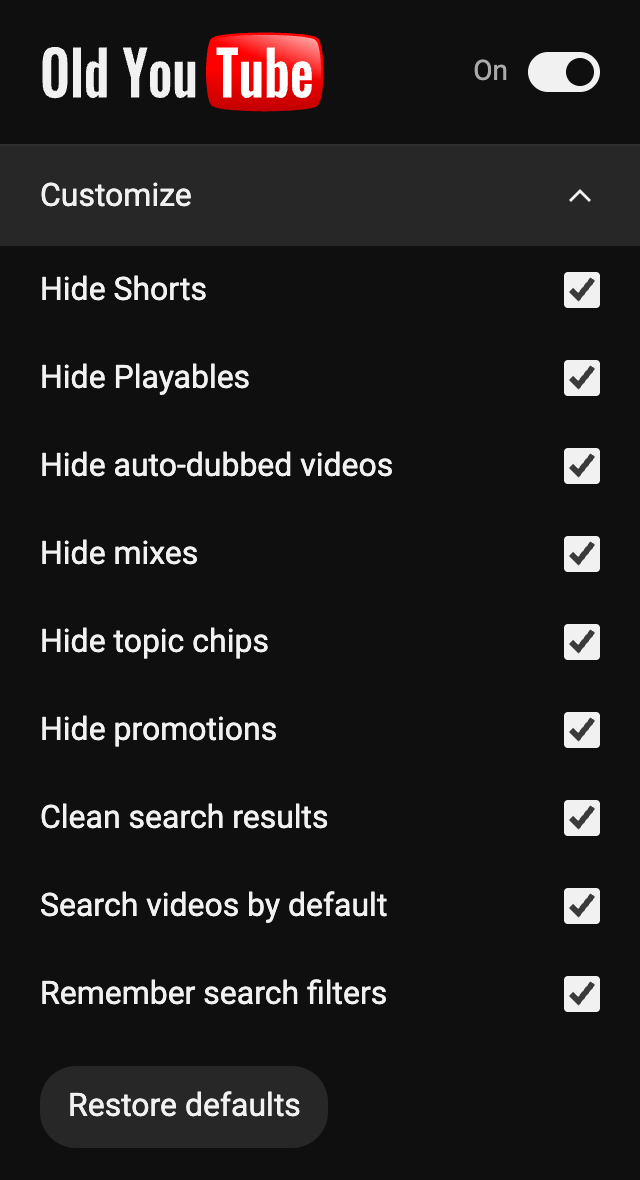
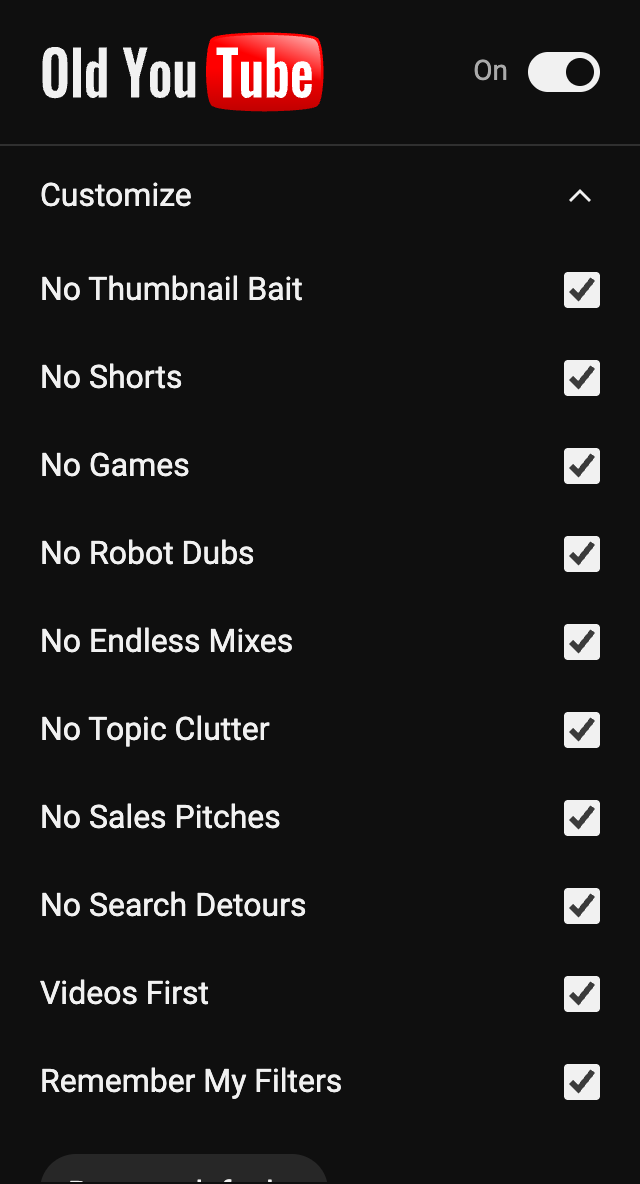
Add No Thumbnail Bait and playful settings labels (#1)

diff --git a/extension/thumbnails.js b/extension/thumbnails.js
@@ -1,0 +1,87 @@
+(() => {
+  'use strict';
+  const entries = new Map();
+  const cache = new Map();
+  let enabled = false;
+  const selector = 'a#thumbnail[href], a.ytLockupViewModelContentImage[href]';
+
+  function frameURL(link) {
+    if (link.querySelector('[overlay-style="LIVE"], [overlay-style="UPCOMING"], .ytBadgeShapeThumbnailLive')) return null;
+    const labels = link.querySelectorAll('badge-shape, ytd-thumbnail-overlay-time-status-renderer');
+    if ([...labels].some(e => /^(live|upcoming|premiere)$/i.test(e.textContent.trim()))) return null;
+    return globalThis.OldYouTube.videoFrameURL(link.href);
+  }
+
+  function clear(image) {
+    image.removeAttribute('data-oy-frame');
+    image.style.removeProperty('--oy-frame');
+    observer.unobserve(image);
+    entries.delete(image);
+  }
+
+  function available(url) {
+    if (cache.has(url)) return cache.get(url);
+    const result = new Promise(resolve => {
+      const probe = new Image();
+      probe.referrerPolicy = 'no-referrer';
+      let timer;
+      const finish = ok => {
+        clearTimeout(timer);
+        probe.onload = probe.onerror = null;
+        if (!ok) probe.removeAttribute('src');
+        resolve(ok);
+      };
+      // A missing still can return a successful HTTP response with a 120px placeholder.
+      probe.onload = () => finish(probe.naturalWidth > 120 && probe.naturalHeight > 90);
+      probe.onerror = () => finish(false);
+      timer = setTimeout(() => finish(false), 8000);
+      probe.src = url;
+    });
+    cache.set(url, result);
+    if (cache.size > 200) cache.delete(cache.keys().next().value);
+    return result;
+  }
+
+  const observer = new IntersectionObserver(changes => {
+    for (const change of changes) {
+      if (!enabled || !change.isIntersecting) continue;
+      const image = change.target;
+      const entry = entries.get(image);
+      if (!entry || entry.started) continue;
+      entry.started = true;
+      observer.unobserve(image);
+      available(entry.url).then(ok => {
+        if (!ok || !enabled || !image.isConnected || entries.get(image) !== entry ||
+            frameURL(entry.link) !== entry.url) return;
+        image.style.setProperty('--oy-frame', `url("${entry.url}")`);
+        image.setAttribute('data-oy-frame', '');
+      });
+    }
+  }, { rootMargin: '200px' });
+
+  function scan() {
+    if (!enabled) return;
+    // YouTube recycles cards and sometimes keeps a hidden page during SPA navigation.
+    for (const [image, entry] of entries) {
+      if (!image.isConnected || !entry.link.contains(image) || frameURL(entry.link) !== entry.url) clear(image);
+    }
+    for (const link of document.querySelectorAll(selector)) {
+      const url = frameURL(link);
+      if (!url) continue;
+      const image = link.querySelector('.ytThumbnailViewModelImage img, yt-image img, img#img');
+      if (!image || entries.has(image)) continue;
+      entries.set(image, { link, url, started: false });
+      observer.observe(image);
+    }
+  }
+
+  function setEnabled(value) {
+    enabled = value;
+    if (!enabled) {
+      observer.disconnect();
+      for (const image of entries.keys()) clear(image);
+    }
+  }
+
+  globalThis.OldYouTubeFrames = { scan, setEnabled };
+})();

diff --git a/extension/popup.html b/extension/popup.html
@@ -19,15 +19,16 @@
     <details id="customize">
       <summary>Customize<svg aria-hidden="true" width="20" height="20" viewBox="0 0 24 24"><path d="m6 9 6 6 6-6"/></svg></summary>
       <div class="options">
-        <label><span>Hide Shorts</span><input type="checkbox" data-setting="hideShorts" disabled></label>
-        <label><span>Hide Playables</span><input type="checkbox" data-setting="hidePlayables" disabled></label>
-        <label><span>Hide auto-dubbed videos</span><input type="checkbox" data-setting="hideAutoDubbed" disabled></label>
-        <label><span>Hide mixes</span><input type="checkbox" data-setting="hideMixes" disabled></label>
-        <label><span>Hide topic chips</span><input type="checkbox" data-setting="hideTopics" disabled></label>
-        <label><span>Hide promotions</span><input type="checkbox" data-setting="hidePromotions" disabled></label>
-        <label><span>Clean search results</span><input type="checkbox" data-setting="cleanSearch" disabled></label>
-        <label><span>Search videos by default</span><input type="checkbox" data-setting="videoSearch" disabled></label>
-        <label><span>Remember search filters</span><input type="checkbox" data-setting="rememberFilters" disabled></label>
+        <label><span>No Thumbnail Bait</span><input type="checkbox" data-setting="videoFrames" disabled></label>
+        <label><span>No Shorts</span><input type="checkbox" data-setting="hideShorts" disabled></label>
+        <label><span>No Games</span><input type="checkbox" data-setting="hidePlayables" disabled></label>
+        <label><span>No Robot Dubs</span><input type="checkbox" data-setting="hideAutoDubbed" disabled></label>
+        <label><span>No Endless Mixes</span><input type="checkbox" data-setting="hideMixes" disabled></label>
+        <label><span>No Topic Clutter</span><input type="checkbox" data-setting="hideTopics" disabled></label>
+        <label><span>No Sales Pitches</span><input type="checkbox" data-setting="hidePromotions" disabled></label>
+        <label><span>No Search Detours</span><input type="checkbox" data-setting="cleanSearch" disabled></label>
+        <label><span>Videos First</span><input type="checkbox" data-setting="videoSearch" disabled></label>
+        <label><span>Remember My Filters</span><input type="checkbox" data-setting="rememberFilters" disabled></label>
         <button id="reset" type="button" disabled>Restore defaults</button>
       </div>
     </details>

diff --git a/extension/content.js b/extension/content.js
@@ -4,6 +4,7 @@
   const flags = {
     hideShorts: 'data-oy-shorts', hidePlayables: 'data-oy-playables',
     hideAutoDubbed: 'data-oy-auto-dubbed', hideMixes: 'data-oy-mixes',
+    videoFrames: 'data-oy-frames',
     hideTopics: 'data-oy-topics', hidePromotions: 'data-oy-promotions', cleanSearch: 'data-oy-search',
   };
   const cards = [
@@ -28,6 +29,7 @@
     for (const [key, attribute] of Object.entries(flags)) {
       document.documentElement.toggleAttribute(attribute, ready && preferences.enabled && preferences[key]);
     }
+    globalThis.OldYouTubeFrames.setEnabled(ready && preferences.enabled && preferences.videoFrames);
   }
 
   function classify(card) {
@@ -70,6 +72,7 @@
       const shorts = shelf.querySelector('ytm-shorts-lockup-view-model, ytm-shorts-lockup-view-model-v2, a[href^="/shorts/"]');
       shelf.toggleAttribute('data-oy-search-shelf', !shorts);
     }
+    globalThis.OldYouTubeFrames.scan();
   }
 
   function hasAutoDubbedBadge(card) {
@@ -146,7 +149,7 @@
     observer = new MutationObserver(scheduleScan);
     observer.observe(document.documentElement, {
       childList: true, subtree: true, characterData: true,
-      attributes: true, attributeFilter: ['href', 'overlay-style', 'title', 'tab-title', 'aria-label', 'label', 'hidden', 'aria-hidden'],
+      attributes: true, attributeFilter: ['href', 'src', 'srcset', 'overlay-style', 'title', 'tab-title', 'aria-label', 'label', 'hidden', 'aria-hidden'],
     });
     applyFlags();
     scheduleScan();

diff --git a/extension/core.js b/extension/core.js
@@ -8,6 +8,7 @@
     hidePlayables: true,
     hideAutoDubbed: true,
     hideMixes: true,
+    videoFrames: true,
     hideTopics: true,
     hidePromotions: true,
     cleanSearch: true,
@@ -60,6 +61,14 @@
     return typeof value === 'string' && /^auto[\s\u2010-\u2015-]*dubbed$/i.test(value.trim());
   }
 
+  function videoFrameURL(value) {
+    const url = youtubeURL(value);
+    const id = url?.searchParams.get('v');
+    if (url?.pathname !== '/watch' || url.searchParams.has('list') || !/^[\w-]{11}$/.test(id || '')) return null;
+    // YouTube's second generated still, independent of the uploaded thumbnail.
+    return `https://i.ytimg.com/vi/${id}/hq2.jpg`;
+  }
+
   function searchDestination(value, preferences, rememberedFilter) {
     const url = youtubeURL(value);
     if (!preferences.enabled || !preferences.videoSearch || url?.pathname !== '/results' ||
@@ -72,7 +81,7 @@
     return url.href;
   }
 
-  const api = { DEFAULTS, VIDEO_FILTER, settings, isStandard, validFilter, youtubeURL, shortDestination, isMixURL, isAutoDubbedLabel, searchDestination };
+  const api = { DEFAULTS, VIDEO_FILTER, settings, isStandard, validFilter, youtubeURL, shortDestination, isMixURL, isAutoDubbedLabel, videoFrameURL, searchDestination };
   globalThis.OldYouTube = Object.freeze(api);
   if (typeof module !== 'undefined') module.exports = api;
 })();

diff --git a/extension/popup.css b/extension/popup.css
@@ -47,7 +47,7 @@ summary::-webkit-details-marker { display: none; }
 summary:hover, .options label:hover { background: var(--hover); }
 summary svg { fill: none; stroke: currentColor; stroke-width: 1.5; }
 details[open] summary svg { transform: rotate(180deg); }
-.options { padding-bottom: 16px; }
+.options { padding-bottom: 16px; max-height: 468px; overflow-y: auto; }
 .options label { display: flex; align-items: center; justify-content: space-between; gap: 16px; min-height: 44px; padding: 10px 20px; cursor: pointer; }
 input[type="checkbox"] { flex-shrink: 0; width: 18px; height: 18px; margin: 0; accent-color: var(--text); cursor: pointer; }
 button { font: inherit; color: inherit; }

diff --git a/extension/content.css b/extension/content.css
@@ -1,4 +1,10 @@
 /* Scope every rule to an enabled preference; disabling never leaves inline styles behind. */
+/* Preserve YouTube's original src/srcset so toggling off reveals its latest image. */
+html[data-oy-frames] img[data-oy-frame] {
+  content: var(--oy-frame) !important;
+  object-fit: cover !important;
+}
+
 html[data-oy-shorts] :is(
   ytd-reel-shelf-renderer,
   ytd-rich-section-renderer:has(ytd-rich-shelf-renderer[is-shorts]),

diff --git a/README.md b/README.md
@@ -15,6 +15,7 @@ Everything below is enabled by default.
 
 | Feature | Behavior |
 | --- | --- |
+| No Thumbnail Bait (experimental) | Replaces ordinary video thumbnails with YouTube's second generated still. Loads near the viewport and keeps the original when unavailable. |
 | Shorts | Hides Shorts cards, shelves, navigation entries and channel tabs. Direct Shorts links open in the regular video player. |
 | Playables | Hides games, their shelves and navigation entries. |
 | Auto-dubbed videos | Hides cards carrying YouTube's English **Auto-dubbed** badge. |
@@ -53,6 +54,8 @@ The popup follows your system's light or dark appearance. Visibility settings up
 - Does not collect searches, watch history or account data.
 - All icons and lettering are bundled locally.
 
+With **No Thumbnail Bait** enabled, generated images are requested directly from YouTube's thumbnail CDN (`i.ytimg.com`). There is no third-party thumbnail service and no video download. Availability results are cached in memory, not in browsing history or persistent storage.
+
 YouTube still receives your normal browsing requests. The extension cleans up the page in your browser.
 
 ## Limits
@@ -60,6 +63,8 @@ YouTube still receives your normal browsing requests. The extension cleans up th
 Old YouTube cleans up the current desktop site; it does not restore an archived YouTube layout or change its recommendation algorithm. It cannot recover search results YouTube did not return, and it is not a general ad blocker. Thumbnail density and autoplay are unchanged.
 
 Auto-dubbed filtering depends on the English badge being present. It hides those cards; it does not switch audio tracks or detect unlabelled dubs. A few navigation labels also depend on YouTube's language.
+
+Generated video stills are usually lower resolution than uploaded thumbnails. The selected frame may be unrepresentative or include text already in the video; this is not a clickbait detector. This feature skips playlist artwork and recognized live/upcoming badges. The image endpoint is undocumented and may not be available for every video.
 
 YouTube regularly changes its markup and tests different layouts, so some selectors may need updating. Mobile YouTube, embedded players and native apps are outside this version's scope. Native search-filter encoding is undocumented, and applying a filter may briefly reload the page.
 
@@ -92,11 +97,12 @@ The preview launcher uses a separate profile in the operating system's temporary
 | --- | --- |
 | `extension/core.js` | Defaults, settings validation and URL handling |
 | `extension/content.js` | Page updates, card detection and search-filter memory |
+| `extension/thumbnails.js` | Lazy video-frame replacement, availability checks and restoration |
 | `extension/content.css` | Reversible hiding rules and layout adjustments |
 | `extension/popup.*` | On/off switch and optional settings |
 | `extension/icons/toolbar.svg` | Editable toolbar icon |
 
-The tests cover defaults, pause/resume, dynamic and recycled cards, client-side navigation, Shorts redirects, native search filters, persistence, resets, auto-dubbed cards, mixes and homepage header spacing. Browser test output goes to the operating system's temporary directory.
+The tests cover defaults, pause/resume, dynamic and recycled cards, client-side navigation, Shorts redirects, native search filters, persistence, resets, auto-dubbed cards, mixes, homepage header spacing and reversible video-frame thumbnails with missing-image fallbacks. Browser test output goes to the operating system's temporary directory.
 
 For selector changes, also check Home, Search, Subscriptions, a channel and a watch page on the live site. Automated tests use fixtures and cannot cover every YouTube experiment.
 
